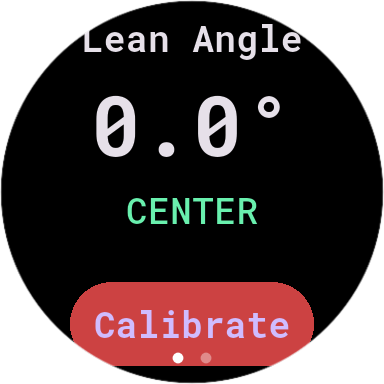
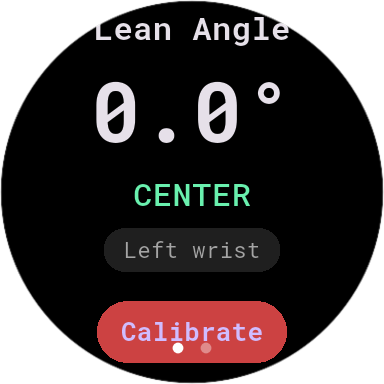
README documentation update and new screenshots

diff --git a/README.md b/README.md
@@ -2,62 +2,57 @@
 
 **⚠ [UNDER DEVELOPMENT]**
 
-T-Axis is a high-performance Wear OS telemetry application designed for motorcycles. It provides real-time data on lean angle and speed, turning your Samsung Watch 7 (or other Wear OS devices) into a portable racing telemetry tool.
+T-Axis is a high-performance telemetry application designed specifically for motorcycles on Wear OS. It transforms your Samsung Watch 7 (or any Wear OS device) into a precise racing instrument, providing real-time data on lean angle and speed.
 
-## Features
+## 🚀 Key Functionality
 
-- **Real-time Lean Angle**: Uses the watch's accelerometer to calculate the absolute tilt angle.
-- **Speedometer**: High-accuracy GPS tracking with max speed recording.
-- **Low-Pass Filtering**: Ensures stable data readings by filtering out engine and road vibrations.
-- **Orientation Locked**: Fixed portrait orientation for consistent sensor mapping.
-- **Wake-Lock**: Prevents the screen from turning off during a ride.
-- **Swipe-to-Dismiss Disabled**: Prevents accidental app closure due to vibrations or movements.
+- **Complementary Filtered Lean Angle**: Combines **Gyroscope** (for fast, real-time response) and **Accelerometer** (for long-term drift correction). This solves the "centripetal noise" problem where simple accelerometer-based lean angles snap to center during high-speed cornering.
+- **Dynamic Mounting Modes**: Support for **Handlebar**, **Wrist**, and **Tank** mounting. The logic automatically re-maps sensor axes based on how the watch is oriented.
+- **Direction Flip**: One-tap toggle for handlebar mounting to support both left and right-side installations.
+- **High-Precision Speedometer**: GPS-based speed tracking optimized for high-speed updates (1Hz) with Max Speed memory.
+- **Reliability Locks**:
+    - **Orientation Lock**: Fixed portrait mode for consistent sensor mapping.
+    - **Wake-Lock**: Screen remains active and bright throughout the ride.
+    - **Swipe-to-Dismiss Disabled**: Native-level protection against accidental app closure from vibrations.
 
-## Screenshots
+## 📊 Screenshots
 
-|             Lean Angle Face              |              Speedometer Face              |
-|:----------------------------------------:|:------------------------------------------:|
-| ![lean.png](assets/screenshots/lean.png) | ![speed.png](assets/screenshots/speed.png) |
-|     *Visual representation of tilt*      |     *Live speed and max speed record*      |
+|                 Lean Face                 |                 Speed Face                  |                     Mounting Setup                     | Mounting Setup 2                                         |
+|:-----------------------------------------:|:-------------------------------------------:|:------------------------------------------------------:|:---------------------------------------------------------|
+| ![Lean Face](assets/screenshots/lean.png) | ![Speed Face](assets/screenshots/speed.png) | ![Mounting Dialog](assets/screenshots/mountdialog.png) | ![mountdialog2.png](assets/screenshots/mountdialog2.png) |
+|             *Real-time Tilt*              |               *GPS Velocity*                |                     *Axis Mapping*                     | *Axis Mapping*                                           |
 
-## Tech Stack
+## 🛠 Advanced Signal Processing
 
-- **Flutter**: UI and cross-platform framework.
-- **sensors_plus**: Access to accelerometer data.
-- **geolocator**: Precise GPS tracking for speed.
-- **wear_plus**: Wear OS UI components.
+### Complementary Filter
+The lean angle is calculated using a 96/4 split between the Gyroscope and Accelerometer. This provides a lag-free experience while riding, as the Gyroscope tracks rapid changes in angle while the Accelerometer slowly corrects for any cumulative sensor drift.
 
-## Installation & Build
+### Low-Pass Filter (`lowpass_fiter.dart`)
+The project includes a standalone `LowPassFilter` class in the utilities' directory.
+- **Current State**: The existing lean angle calculation uses its own frequency-based smoothing via the complementary filter logic.
+- **Extensibility**: If the environment has extreme high-frequency vibrations (e.g., a high-revving single-cylinder engine) that the complementary filter doesn't suffice for, the code in `lib/utilities/lowpass_fiter.dart` can be modified and used to replace or pre-process the existing logic in `dashboard_screen.dart`.
 
-1. **Prerequisites**:
-   - Flutter SDK installed.
-   - Developer mode and ADB over Wi-Fi enabled on your watch.
+## 📱 Tech Stack
 
-2. **Connect to Watch**:
-   ```sh
-   adb connect <WATCH_IP_ADDRESS>:<PORT>
-   ```
+- **Flutter**: Modern UI framework.
+- **Sensors Plus**: Low-level access to 6-axis IMU (Accel/Gyro).
+- **Geolocator**: High-accuracy position and velocity tracking.
+- **Wear Plus**: Circular UI adaptation for smartwatches.
 
-3. **Build APK**:
+## 🔧 Installation
+
+1. **Build**:
    ```sh
    flutter build apk --release
    ```
-
-4. **Install to Watch**:
+2. **Deploy**:
    ```sh
+   adb connect <WATCH_IP>:<PORT>
    adb install build/app/outputs/flutter-apk/app-release.apk
    ```
 
-## Calibration
-
-For accurate lean angle readings, the watch should be calibrated while in its neutral riding position. Simply press the **Calibrate** button on the Lean Face while the watch is level on your wrist in your standard riding posture.
-
-## Roadmap
-
-- [ ] Data logging for post-ride analysis.
-- [ ] Support for lap timing via GPS coordinates.
-- [ ] Customizable theme colors.
+## 🎯 Calibration
+For racing accuracy, stop on a level surface in your standard riding posture and tap **Calibrate**. This sets the "Ground Zero" for the telemetry integration.
 
 ---
-
-*Note: This project is currently under active development. Some features may still be in experimental stages.*
+*Developed for performance riding. Stay safe on the road.*
